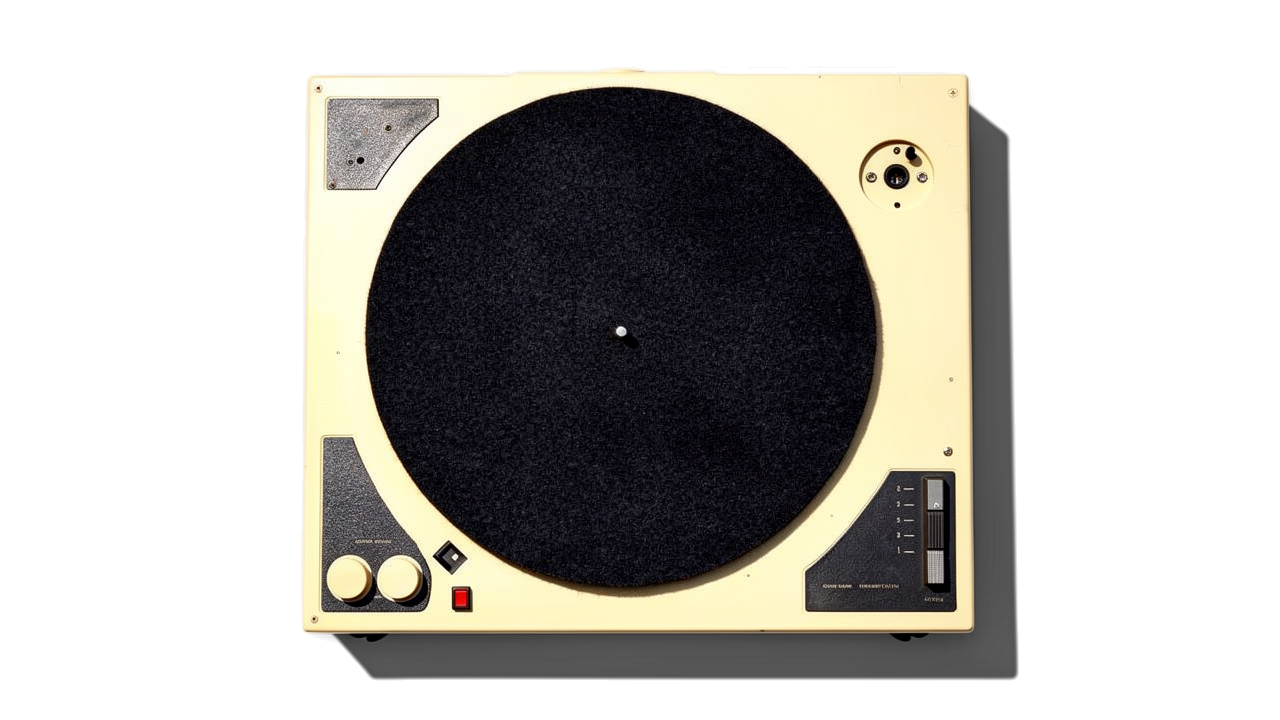
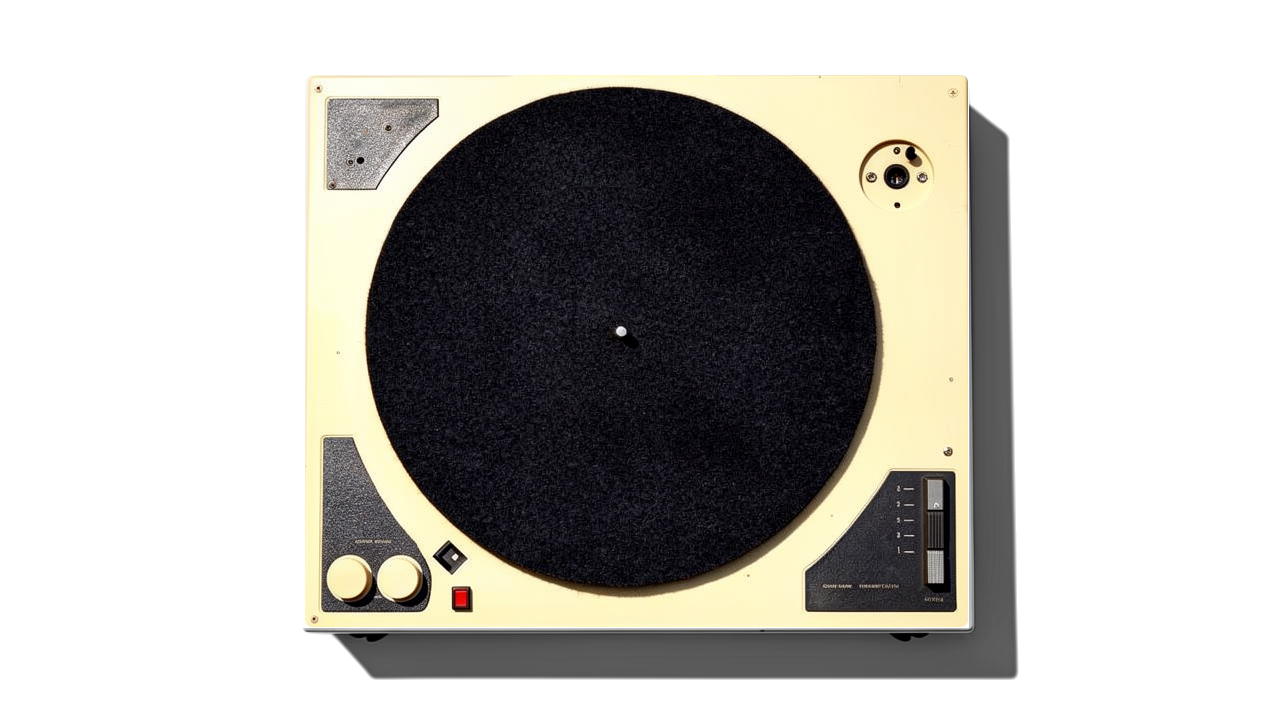
Looping genre columns, orange keys, room and record fixes
- Home genre columns loop endlessly both ways; copies are hidden from
  keyboard and screen readers, and the record's spin never skips.
- Orange keys for Surprise me, the Listening Room close button, the
  "Close trail" state and Share map.
- Intro record: no white rim at the edge; the green label covers fully.
- Listening Room: the heading key is removed (the room keeps its name
  for screen readers), "Now playing" is white and sits above the
  turntable's shadow, and the turntable is cut along its exact outline
  so its top edge is clean.

Changed region(s): [[0.2188, 0.6722, 0.7812, 0.8861], [0.4062, 0.0917, 0.5625, 0.1222], [0.75, 0.5806, 0.7812, 0.6111]]

diff --git a/MuDis-Prototype.html b/MuDis-Prototype.html
@@ -133,6 +133,10 @@ textarea{width:100%;height:130px;resize:vertical;padding:8px;border:1px solid va
 .key.hk .kc svg{display:block}
 .key[aria-expanded="true"] .ku{visibility:hidden}
 .key[aria-expanded="true"] .kd{visibility:visible}
+/* Trail turns into an orange "Close trail" key (pressed in) while the trail map is open */
+.key .od{position:absolute;left:0;top:0;visibility:hidden}
+#pmBtn[aria-expanded="true"] .ku,#pmBtn[aria-expanded="true"] .kd{visibility:hidden}
+#pmBtn[aria-expanded="true"] .od{visibility:visible}
 .key[aria-expanded="true"]{filter:drop-shadow(0 2px 3px rgba(0,0,0,.28)) drop-shadow(0 1px 1px rgba(0,0,0,.25))}
 .key:active .kc,.key.press .kc,.key[aria-expanded="true"] .kc{transform:translateY(1px)}
 .credit{opacity:.75;text-align:right}
@@ -216,14 +220,15 @@ html.intro .sleeve{display:flex}
 .sleeve .sw{font-weight:400;letter-spacing:-.03em}
 .sleeve .sm{font-weight:500;letter-spacing:-.05em}
 .dwrap{position:absolute;left:0;top:0;border-radius:50%;box-shadow:0 30px 52px -16px rgba(0,0,0,.55),0 6px 14px rgba(0,0,0,.16)}
-.rec{width:100%;height:100%;border-radius:50%;display:grid;place-items:center;background:#0c0c0c url("assets/Intro-assets/Vinyl_reference_jpeg.jpg") center/106.4% no-repeat}
-.rec span{color:#111;font-weight:500;letter-spacing:-.04em;line-height:1;text-align:center;display:grid;place-items:center;width:33%;aspect-ratio:1;border-radius:50%;background:#c7cbac}
+.rec{width:100%;height:100%;border-radius:50%;display:grid;place-items:center;background:#0c0c0c url("assets/Intro-assets/Vinyl_reference_jpeg.jpg") center/109% no-repeat}
+.rec span{color:#111;font-weight:500;letter-spacing:-.04em;line-height:1;text-align:center;display:grid;place-items:center;width:35%;aspect-ratio:1;border-radius:50%;background:#c7cbac}
 /* Text that can sit over the black record on Home flips to white there */
 html[data-view="home"] :is(.brand a,.brand p,.gname,.credit){color:#fff;mix-blend-mode:difference}
 html:not(.intro) :is(.search,.lr-open,.right,.brand a,.brand p,.gname,.bar){transition:opacity .9s ease}
 html.intro .search,html.intro .lr-open,html.intro .right,html.intro .brand a,html.intro .brand p,html.intro .gname,html.intro .bar{opacity:0;pointer-events:none}
 html.intro body{overflow:hidden}
 html.intro .rail{overflow:visible}
+html.intro .col.clone{visibility:hidden}
 /* Genre hierarchy tree: Genre > Subgenre > Sub-subgenre, joined by elbow lines */
 .gtree,.gtree ul{list-style:none;margin:0;padding:0}
 .gtree ul{margin-left:16px}
@@ -310,8 +315,6 @@ html:not([data-view="home"]) .lr-open{display:none}
 .lr.on{opacity:1}
 .lr[hidden]{display:none}
 .lr-panel{position:absolute;inset:16px;border-radius:28px;background:#1f4a35 url("assets/listening-room/room-tiles.jpg") center/cover;--fg:#f3f3f1;color:#f3f3f1;isolation:isolate;display:grid;grid-template-columns:minmax(220px,1fr) auto;gap:24px;padding:20px 40px;overflow:hidden}
-.lr-h{position:absolute;left:24px;top:16px;z-index:25;margin:0;font-size:13px;font-weight:500}
-.lr-h img{display:block;height:100%;width:auto;pointer-events:none;user-select:none}
 .lr-close{position:absolute;right:20px;top:16px;z-index:30}
 /* Sleeve wheel: sleeves sit on a curve that bends away to the left. The one in the middle is full size and fully opaque;
    the further a sleeve is from the middle, the smaller and fainter it gets. Positions are set from JS as transforms. */
@@ -345,8 +348,8 @@ html:not([data-view="home"]) .lr-open{display:none}
 .lr-ctl:active,.lr-ctl.press{transform:translate(-50%,-50%) scale(.93);background:#d8661a;box-shadow:inset 0 2px 5px rgba(0,0,0,.35)}
 .lr-ctl[aria-pressed="true"]{box-shadow:inset 0 1px 4px rgba(0,0,0,.3)}
 .lr-ctl:focus-visible{outline:2px solid #111;outline-offset:3px}
-.lr-now,.lr-time{margin:0;font-size:13px;text-align:center}
-.lr-now{margin-top:10px}
+.lr-now,.lr-time{position:relative;z-index:20;margin:0;font-size:13px;text-align:center}
+.lr-now{margin-top:10px;color:#fff}
 .lr-time{margin-top:4px;opacity:.7;font-variant-numeric:tabular-nums}
 .lr-aotd{margin-top:12px}
 .lr-aotd.key{height:58px}
@@ -392,7 +395,7 @@ html:not([data-view="home"]) .lr-open{display:none}
   </div>
   <div class="brand"><a href="#home" id="brandLink">MuDis</a><span class="ptype" id="ptype"></span><p>Pick a genre. Follow the trail down.</p></div>
   <div class="right">
-    <button class="key kl" id="pmBtn" type="button" aria-expanded="false" aria-controls="map"><img class="ku" src="assets/buttons/key-long-up.png" alt=""><img class="kd" src="assets/buttons/key-long-down.png" alt=""><span class="kc"><span id="pmTxt">Trail</span><span id="lvl">L 00</span></span></button>
+    <button class="key kl" id="pmBtn" type="button" aria-expanded="false" aria-controls="map"><img class="ku" src="assets/buttons/key-long-up.png" alt=""><img class="kd" src="assets/buttons/key-long-down.png" alt=""><img class="od" src="assets/buttons/key-orange-long-down.png" alt=""><span class="kc"><span id="pmTxt">Trail</span><span id="lvl">L 00</span></span></button>
     <button class="key kl" id="ntBtn" type="button" aria-expanded="false" aria-controls="nt"><img class="ku" src="assets/buttons/key-long-up.png" alt=""><img class="kd" src="assets/buttons/key-long-down.png" alt=""><span class="kc"><span>Note it</span></span></button>
   </div>
   <div class="panel" id="nt">
@@ -406,7 +409,7 @@ html:not([data-view="home"]) .lr-open{display:none}
 <footer class="bar" id="homeBar">
   <div class="scroll">
     <div class="arrows"><button class="key" type="button" id="prev" aria-label="Previous genres"><img class="ku" src="assets/buttons/key-prev-up.png" alt=""><img class="kd" src="assets/buttons/key-prev-down.png" alt=""></button><button class="key" type="button" id="next" aria-label="Next genres"><img class="ku" src="assets/buttons/key-next-up.png" alt=""><img class="kd" src="assets/buttons/key-next-down.png" alt=""></button></div>
-    <button class="key" type="button" id="surprise" aria-label="Surprise me"><img class="ku" src="assets/buttons/key-surprise-up.png" alt=""><img class="kd" src="assets/buttons/key-surprise-down.png" alt=""></button>
+    <button class="key kl" type="button" id="surprise" aria-label="Surprise me"><img class="ku" src="assets/buttons/key-orange-long-up.png" alt=""><img class="kd" src="assets/buttons/key-orange-long-down.png" alt=""><span class="kc">surprise me</span></button>
   </div>
   <span class="credit">Cover art from Spotify. Text from Wikipedia, CC BY-SA 4.0.</span>
 </footer>
@@ -417,11 +420,10 @@ html:not([data-view="home"]) .lr-open{display:none}
 <div class="toast" id="toast" role="status" aria-live="polite"></div>
 <audio id="pvAudio" preload="none" hidden></audio>
 <!-- Listening Room: opens over Home from the "Listening Room" pill -->
-<div class="lr" id="lr" role="dialog" aria-modal="true" aria-labelledby="lrTitle" hidden>
+<div class="lr" id="lr" role="dialog" aria-modal="true" aria-label="Listening Room" hidden>
   <div class="lr-panel">
-    <h2 class="lr-h key" id="lrTitle"><img src="assets/buttons/key-long-up.png" alt=""><span class="kc">Listening Room</span></h2>
     <p class="lr-shh" aria-hidden="true">shhh...</p>
-    <button class="key hk lr-close" id="lrClose" type="button" aria-label="Close the Listening Room" title="Close (Esc)"><img class="ku" src="assets/buttons/key-home-up.png" alt=""><img class="kd" src="assets/buttons/key-home-down.png" alt=""><span class="kc"><svg width="16" height="16" viewBox="0 0 12 12" fill="none" stroke="currentColor" stroke-width="1.6" stroke-linecap="round" aria-hidden="true"><path d="M2 2l8 8M10 2l-8 8"/></svg></span></button>
+    <button class="key hk lr-close" id="lrClose" type="button" aria-label="Close the Listening Room" title="Close (Esc)"><img class="ku" src="assets/buttons/key-orange-short-up.png" alt=""><img class="kd" src="assets/buttons/key-orange-short-down.png" alt=""><span class="kc"><svg width="16" height="16" viewBox="0 0 12 12" fill="none" stroke="currentColor" stroke-width="1.6" stroke-linecap="round" aria-hidden="true"><path d="M2 2l8 8M10 2l-8 8"/></svg></span></button>
     <div class="lr-stack" id="lrStack" role="group" aria-roledescription="wheel" aria-label="Today’s records. Scroll, or use the up and down arrow keys, to turn the wheel; the record in the middle can be played"></div>
     <div class="lr-right">
       <p class="lr-pick" id="lrPick">Pick a sleeve to start listening.</p>
@@ -1503,6 +1505,30 @@ cards.forEach(function(c){
   var im=document.createElement("img");im.src=cv;im.alt="";im.onerror=function(){c.classList.remove("art");im.remove()};
   c.classList.add("art");c.insertBefore(im,c.firstChild);
 });
+/* Home columns loop: after Blues comes Metal again, both ways. Two copies of all the columns sit on each side of the real set;
+   when scrolling settles (or immediately, near an end) the rail quietly jumps by exactly one set, onto identical columns.
+   The copies are hidden from keyboard tabbing and screen readers, and the record's spin is offset so it never skips. */
+var LOOP={W:0,n:0,t:0};
+(function(){
+  var orig=[].slice.call(rail.children);LOOP.n=orig.length;
+  function copySet(){return orig.map(function(c){var k=c.cloneNode(true);k.classList.add("clone");k.setAttribute("aria-hidden","true");k.querySelectorAll("button").forEach(function(b){b.tabIndex=-1});return k})}
+  for(var s=0;s<2;s++){copySet().forEach(function(k){rail.insertBefore(k,orig[0])});copySet().forEach(function(k){rail.appendChild(k)})}
+})();
+function loopMeasure(){var cols=rail.children,a=cols[2*LOOP.n],b=cols[3*LOOP.n];if(a&&b)LOOP.W=b.offsetLeft-a.offsetLeft;return LOOP.W}
+/* keep the scroll position within half a set of the real columns */
+function loopFix(){
+  if(!LOOP.W&&!loopMeasure())return;
+  var W=LOOP.W,sl=rail.scrollLeft,d=0;
+  while(sl+d<1.5*W)d+=W;while(sl+d>=2.5*W)d-=W;
+  if(d){rail.scrollLeft=sl+d;if(typeof discBase==="number")discBase-=d*.15}
+}
+function loopStart(){loopMeasure();rail.scrollLeft=2*LOOP.W}
+rail.addEventListener("scroll",function(){
+  clearTimeout(LOOP.t);var W=LOOP.W,sl=rail.scrollLeft;
+  if(W&&(sl<.5*W||sl>3.5*W))loopFix();else LOOP.t=setTimeout(loopFix,160);
+},{passive:true});
+addEventListener("resize",function(){var old=LOOP.W,sl=rail.scrollLeft;if(!old)return;var f=(sl-2*old)/old;loopMeasure();rail.scrollLeft=2*LOOP.W+f*LOOP.W});
+loopStart();addEventListener("load",function(){if(rail.scrollLeft<LOOP.W)loopStart()});
 function doors(list,side,msg,tag){return '<div class="dl">'+list.map(function(d){return '<button type="button" class="'+(side?'side':'')+'" data-msg="'+esc(msg)+'"><span><b>'+esc(d[0])+'</b><small>'+esc(d[1])+'</small></span><i>'+tag+'</i></button>'}).join("")+'</div>'}
 /* Photo on an "Essential Artists/ Bands" card: the artist page's photo, unless APIC gives a different one for that genre
    (keyed by the artist's slug, then genre). Artists without a page can also be given a photo here as one file name. */
@@ -2196,7 +2222,7 @@ function mapHTML(){
   +'<p class="mhint">Drag to pan · Ctrl or ⌘ + scroll to zoom · Click a page to open it</p>'
   +'<div class="mzoom"><button type="button" data-z="out" aria-label="Zoom out">−</button><output id="mzv">100%</output><button type="button" data-z="in" aria-label="Zoom in">+</button><hr><button type="button" data-z="fit">Fit</button><button type="button" data-z="you">You</button></div></div>'
   +'<div class="mfoot"><span>Your trail</span><span>'+trail.map(function(p){return esc(p.name)}).join(" → ")+'</span></div>'
-  +'<div class="macts">'+[["mShare","Share map"," main"],["mDig","Keep digging",""],["mReset","Start over",""]].map(function(b){return '<button type="button" class="key kl mk'+b[2]+'" id="'+b[0]+'"><img class="ku" src="assets/buttons/key-long-up.png" alt=""><img class="kd" src="assets/buttons/key-long-down.png" alt=""><span class="kc">'+b[1]+'</span></button>'}).join("")+'</div>';
+  +'<div class="macts">'+[["mShare","Share map"," main"],["mDig","Keep digging",""],["mReset","Start over",""]].map(function(b){var im=b[2]?"key-orange-long":"key-long";return '<button type="button" class="key kl mk'+b[2]+'" id="'+b[0]+'"><img class="ku" src="assets/buttons/'+im+'-up.png" alt=""><img class="kd" src="assets/buttons/'+im+'-down.png" alt=""><span class="kc">'+b[1]+'</span></button>'}).join("")+'</div>';
 }
 function mapSet(){
   var w=document.getElementById("mworld");if(!w)return;
@@ -2486,7 +2512,7 @@ document.addEventListener("click",function(e){
 var q=document.getElementById("q");
 q.addEventListener("input",function(){
   var v=q.value.trim().toLowerCase();
-  cards.forEach(function(c){c.classList.toggle("dim",!!v&&c.dataset.q.indexOf(v)<0)});
+  rail.querySelectorAll(".card").forEach(function(c){c.classList.toggle("dim",!!v&&c.dataset.q.indexOf(v)<0)});   /* copies in the loop too */
 });
 q.addEventListener("keydown",function(e){
   if(e.key!=="Enter")return;
@@ -2527,7 +2553,7 @@ addEventListener("resize",function(){if(!introOn){discLayout();discRest()}});
 discLayout();discRest();
 
 function intro(){
-  introOn=true;root.classList.add("intro");rail.scrollLeft=0;disc.classList.add("front");discLayout();
+  introOn=true;root.classList.add("intro");loopStart();disc.classList.add("front");discLayout();
   var W=L.W,H=L.H,sc=L.Ls+L.S/2,k0=Math.max(W,H)/L.S*1.04,t0=performance.now(),flown=false,shown=false,done=false;
   sleeve.style.transform="translate("+L.Ls+"px,"+(H-L.S)/2+"px)";
   cards.forEach(function(c){
@@ -2546,7 +2572,7 @@ function intro(){
   function finish(){
     done=true;introOn=false;removeEventListener("pointerdown",skip,true);removeEventListener("keydown",skip,true);
     if(!flown)fly(true);root.classList.remove("intro");sleeve.classList.remove("on");
-    discBase=discRot(L.xEnd);discRest();
+    discBase=discRot(L.xEnd)-rail.scrollLeft*.15;discRest();   /* the rail starts on the real columns (not at 0), so offset the spin to land the label upright */
     setTimeout(function(){cards.forEach(function(c){c.style.transition=""})},1100);
   }
   function skip(){if(!done)finish()}
